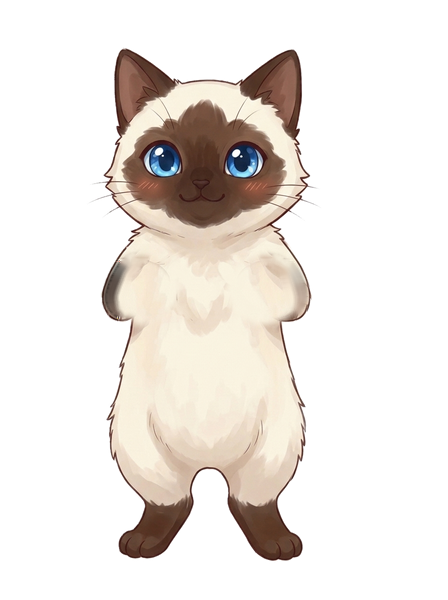
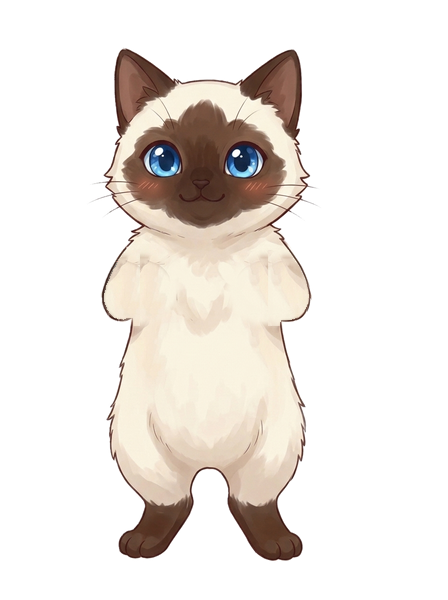
남은 배경 7장(제미나이), 숙소 등급별 배경, 헤드셋 선 굵게, 샴 얼룩 지우기

Changed region(s): [[0.5938, 0.42, 0.6875, 0.54], [0.2188, 0.42, 0.3125, 0.54]]

diff --git a/index.html b/index.html
@@ -1273,7 +1273,7 @@ document.body.insertAdjacentHTML('afterbegin', puppetDefs());
 const blinkDelay = m => `animation-delay:${-((m.hue || 0) % 46) / 10}s`;
 // ===== 2D 고양이 아이돌 (그림 AI 그림 + 휘는 메시 애니메이션, cat2d.js) =====
 const CATS = [['cheese', '치즈'], ['tuxedo', '턱시도'], ['calico', '삼색'], ['black', '까망'], ['white', '하양'], ['tabby', '고등어'], ['siamese', '샴'], ['gray', '러블']];
-const CATV = '?v=10';
+const CATV = '?v=11';
 // 옷·소품 (art/cat/item-*.png, 좌표는 items.json). 무대에서는 콘셉트 의상, 평소엔 멤버별로 고른 옷
 const WEAR_CLOTH = [[null, '없음'], ['hoodie', '후드 조끼'], ['sport', '운동복'], ['dress', '프릴 원피스'], ['sailor', '세일러'], ['leather', '가죽 조끼'], ['cape', '별빛 망토'], ['polka', '물방울 원피스'], ['jersey', '힙합 저지'], ['ballad', '흰 드레스'], ['reddress', '빨간 드레스']];
 const WEAR_ACC = [[null, '없음'], ['ribbon', '리본'], ['crown', '왕관'], ['headset', '헤드셋 마이크'], ['beret', '베레모'], ['cap', '야구 모자'], ['sunglasses', '선글라스'], ['flower', '꽃 화관'], ['bowtie', '나비넥타이']];
@@ -1299,12 +1299,14 @@ let PIXIP = null;
 const loadPixi = () => PIXIP || (PIXIP = new Promise((ok, no) => { if (window.PIXI) return ok(); const sc = document.createElement('script'); sc.src = 'https://cdn.jsdelivr.net/npm/pixi.js@7.4.2/dist/pixi.min.js'; sc.onload = ok; sc.onerror = no; document.head.appendChild(sc); }));
 let CAT2 = null, CATAPP = null, CATCV = null, CATDATA = {}, CATS_ON = [];
 const MODE2 = { stage: 'dance', concert: 'dance', festival: 'dance', yearend: 'dance', practice: 'dance', win: 'cheer', live: 'wave', fansign: 'wave', prep: 'idle', drama: 'idle', dorm: 'sleep', scandal: 'sad' };
-// 무료 AI(FLUX)로 만든 배경 그림. 없는 장면은 예전 그림(scene) 그대로
-const BGS = ['stage', 'practice', 'concert', 'festival', 'yearend', 'live', 'fansign', 'prep'];
-const BG_ALIAS = { win: 'stage' };
+// AI로 만든 배경 그림 (8장 무료 FLUX, 7장 제미나이). 숙소는 사는 집 등급에 따라 3가지
+const BGS = ['stage', 'practice', 'concert', 'festival', 'yearend', 'live', 'fansign', 'prep', 'drama', 'dorm', 'dorm_old', 'dorm_lux', 'clinic', 'scandal', 'win'];
+const BG_ALIAS = {};
+const dormBg = () => { const d = S && S.dorm ? dormOf() : DORMS[1]; return d.id === 'd1' ? 'dorm_old' : d.isNew ? 'dorm_lux' : 'dorm'; };
 function bgHTML(kind) {
+  if (kind === 'dorm') kind = dormBg();
   const k = BGS.includes(kind) ? kind : BGS.includes(BG_ALIAS[kind]) ? BG_ALIAS[kind] : null;
-  return k ? `<img class="bgimg" src="art/bg/${k}.webp" alt="">${kind === 'win' ? '<div class="winfx"></div>' : ''}` : scene(kind, [], kind !== 'clinic');
+  return k ? `<img class="bgimg" src="art/bg/${k}.webp?v=2" alt="">${kind === 'win' ? '<div class="winfx"></div>' : ''}` : scene(kind, [], kind !== 'clinic');
 }
 let MOUNT_ID = 0;
 async function mount2d(host, members, kind) {
@@ -1768,7 +1770,7 @@ let REVEAL = null;
 function showReport(r) {
   const inc = r.inc.reduce((a, x) => a + x[1], 0), exp = r.exp.reduce((a, x) => a + x[1], 0);
   const d0 = dateOf(S.week - 1), d1 = dateOf(S.week);
-  const top = `<div class="flip"><span class="pg old">${d0.m}월 ${d0.k}주</span><span class="pg new">${d1.m}월 ${d1.k}주</span></div>${r.scene === 'clinic' ? scene('clinic', [], false) : `<div class="st3host" id="st3host">${bgHTML(r.scene)}</div>`}<p class="caption">${CAPTION[r.scene] || ''}</p>
+  const top = `<div class="flip"><span class="pg old">${d0.m}월 ${d0.k}주</span><span class="pg new">${d1.m}월 ${d1.k}주</span></div><div class="st3host" id="st3host">${bgHTML(r.scene)}</div><p class="caption">${CAPTION[r.scene] || ''}</p>
 <div class="sum">${[['💗 팬', r.dFans, n => (n >= 0 ? '+' : '') + num(n)], ['💰 자금', inc - exp, n => (n >= 0 ? '+' : '') + money(n)], ['⭐ 인지도', r.dFame, n => (n >= 0 ? '+' : '') + n]].map(([l, v, f]) => `<span class="${v < 0 ? 'neg' : ''}">${l} <b data-count="${Math.round(v)}" data-fmt="${l}">${f(0)}</b></span>`).join('')}</div>`;
   let h = `<h2>${r.title}</h2>`;
   if (r.lines.length) h += r.lines.map(t => `<div>${esc(t)}</div>`).join('');

diff --git a/cat-live.html b/cat-live.html
@@ -25,7 +25,7 @@ p{color:#8a6f7a;font-size:13px;line-height:1.5}
 <p>그림 AI로 그린 고양이를 몸통·팔·꼬리·표정으로 나누고, 그림을 <b>휘고 늘리는</b> 방식(Live2D·Spine과 같은 원리)으로 움직여요. 팔과 꼬리는 붙은 곳은 고정되고 끝으로 갈수록 휘어서 이음새가 없어요. 머리는 목 부분이 부드럽게 늘어나며 기울고, 숨 쉴 때 몸이 살짝 부풀어요.</p>
 </main>
 <script type="module">
-import { loadCat, makeCat, loadItems } from './cat2d.js?v=10';
+import { loadCat, makeCat, loadItems } from './cat2d.js?v=11';
 const MODES = { idle: '대기', dance: '춤', cheer: '만세(1위)', wave: '손 흔들기', sleep: '졸기', sad: '시무룩' };
 const cv = document.getElementById('st');
 const app = new PIXI.Application({ view: cv, backgroundAlpha: 0, antialias: true, width: cv.clientWidth, height: cv.clientHeight, resolution: Math.min(2, devicePixelRatio || 1), autoDensity: true });

diff --git a/cat2d.js b/cat2d.js
@@ -1,6 +1,6 @@
 // ===== 2D 고양이 아이돌 (그림을 휘고 늘리는 메시 애니메이션, PixiJS) =====
 // 부위 그림(몸통·팔·꼬리·표정)을 격자 모양 메시로 붙이고, 꼭짓점을 움직여서 이음새 없이 휘게 만듦.
-const ART = new URL('art/cat/', import.meta.url).href, VER = '?v=10';   // 고치면 숫자 올리기 (브라우저 저장본 대신 새 파일)
+const ART = new URL('art/cat/', import.meta.url).href, VER = '?v=11';   // 고치면 숫자 올리기 (브라우저 저장본 대신 새 파일)
 const sstep = (a, b, x) => { const t = Math.max(0, Math.min(1, (x - a) / (b - a))); return t * t * (3 - 2 * t); };
 const rot = (x, y, cx, cy, a) => { const c = Math.cos(a), s = Math.sin(a); return [cx + (x - cx) * c - (y - cy) * s, cy + (x - cx) * s + (y - cy) * c]; };
 

diff --git a/sw.js b/sw.js
@@ -1,5 +1,5 @@
 // 인터넷이 없어도 열리도록 앱 파일을 저장해 둠. 앱을 고치면 VERSION 숫자를 올릴 것.
-const VERSION = "v17";
+const VERSION = "v18";
 const FILES = ["./", "index.html", "manifest.webmanifest", "icon-180.png", "icon-192.png", "icon-512.png"];
 self.addEventListener("install", e => { e.waitUntil(caches.open(VERSION).then(c => c.addAll(FILES))); self.skipWaiting(); });
 self.addEventListener("activate", e => { e.waitUntil(caches.keys().then(ks => Promise.all(ks.filter(k => k !== VERSION).map(k => caches.delete(k))))); self.clients.claim(); });
